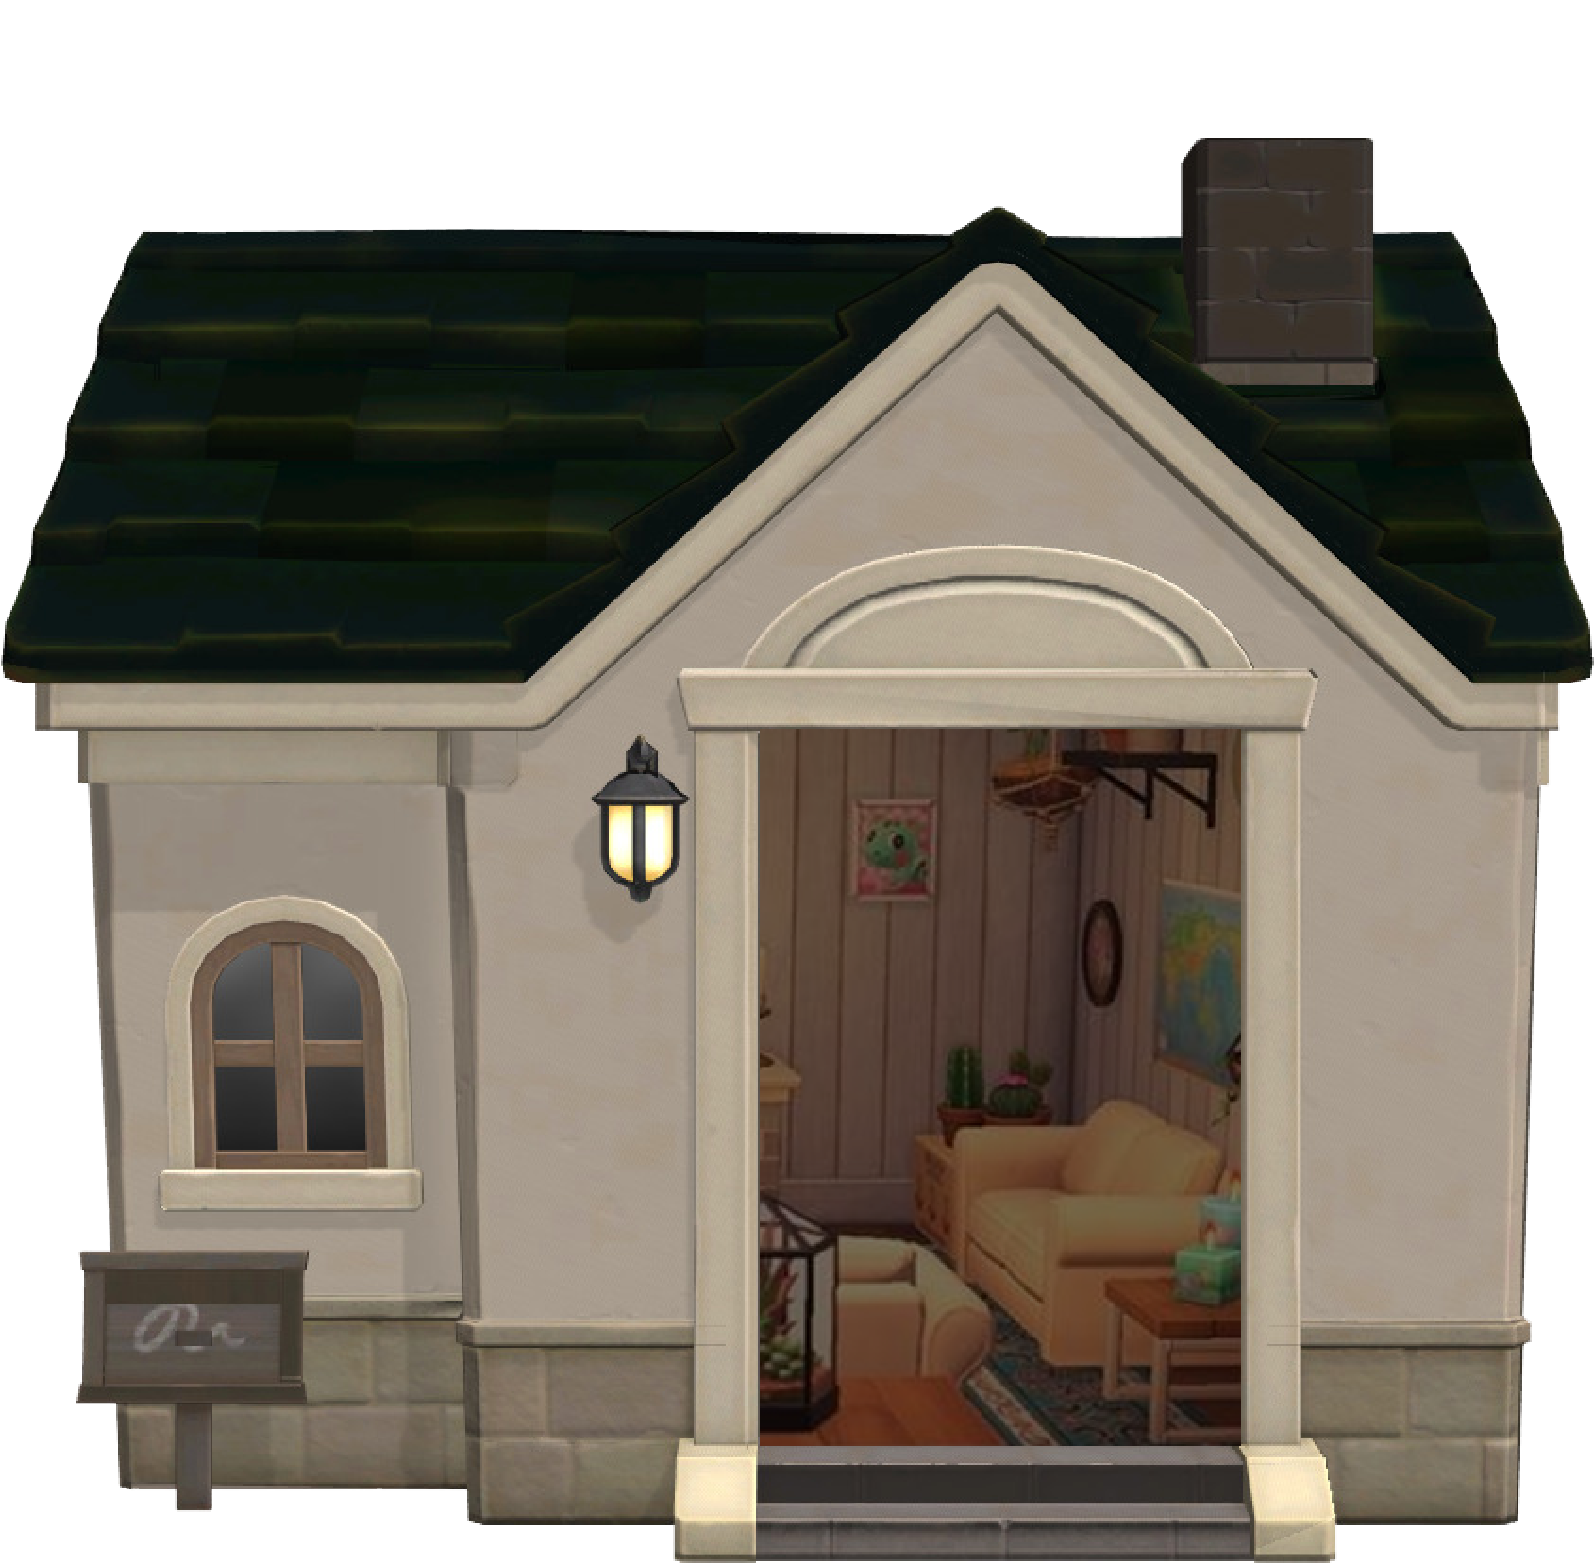
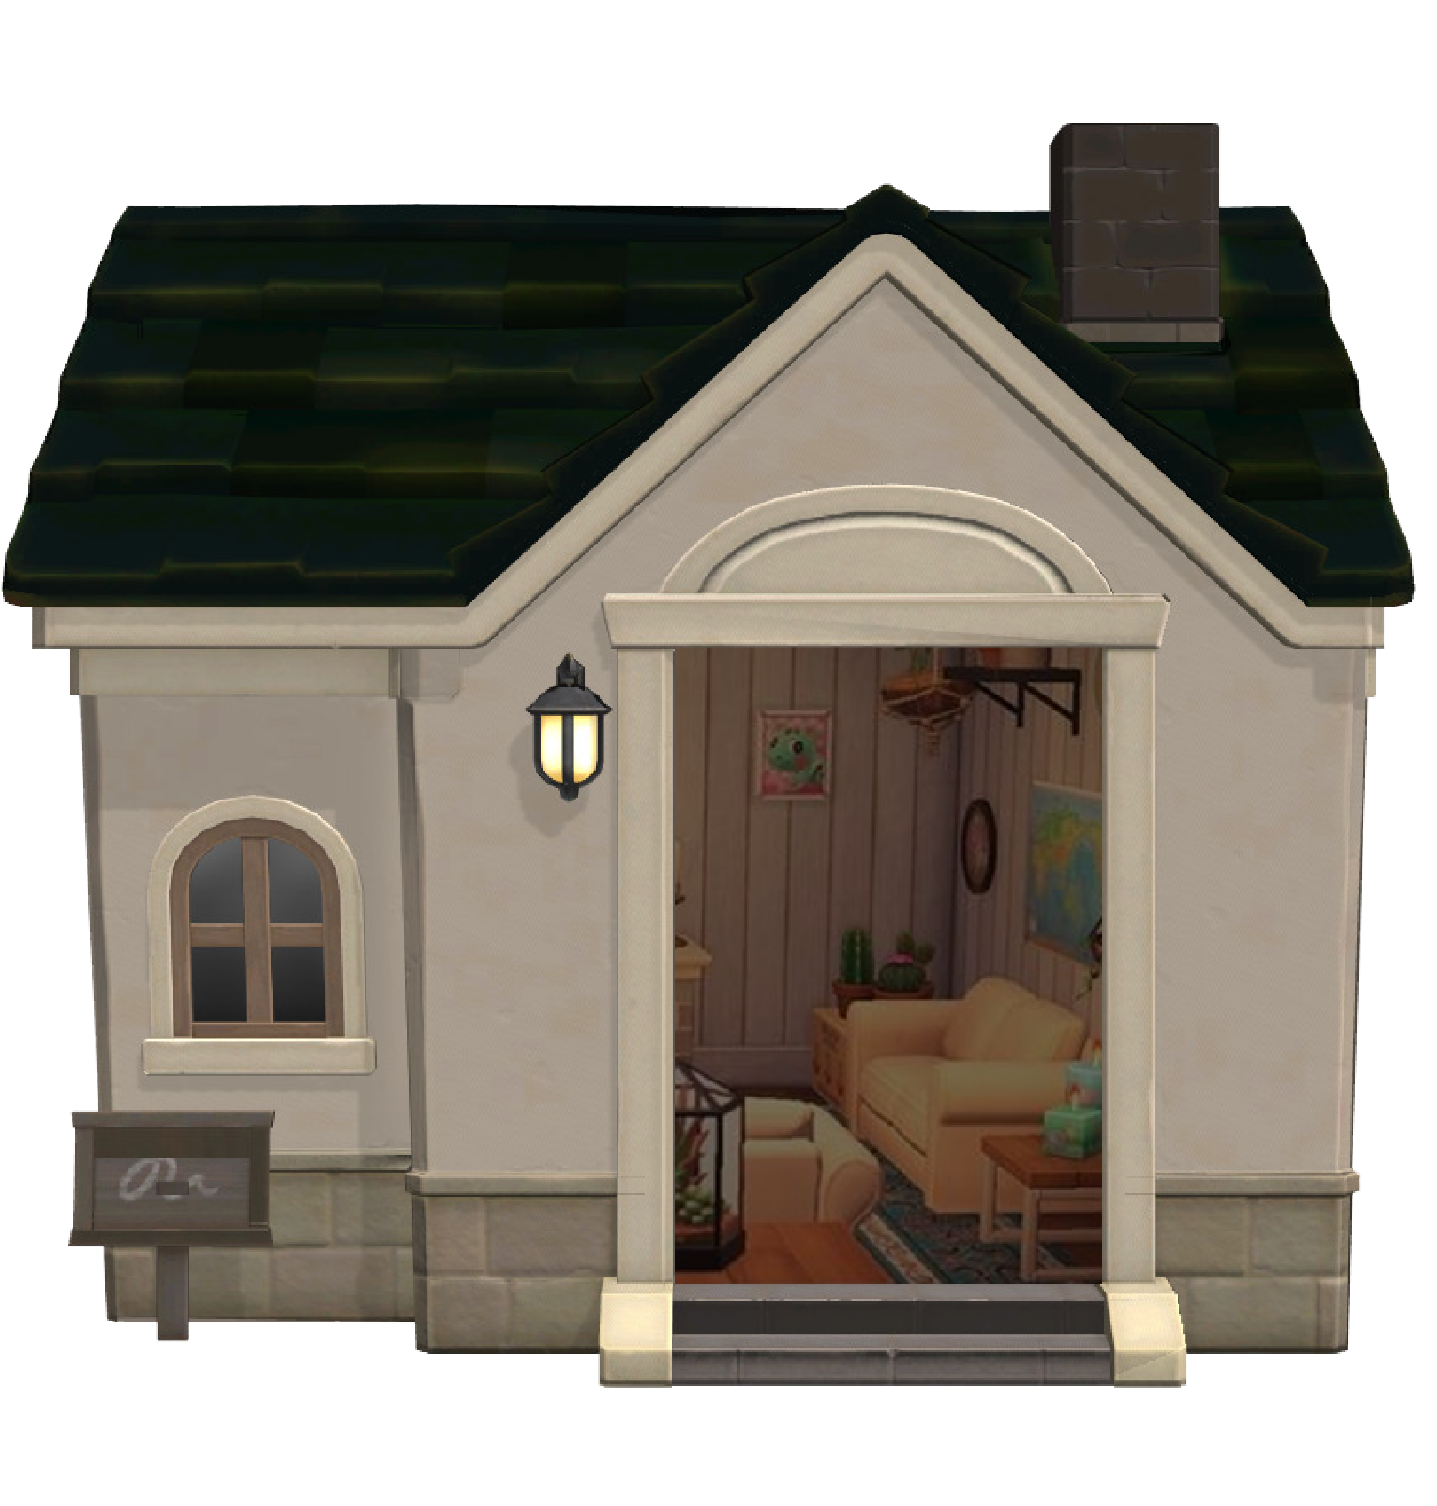
Add files via upload

diff --git a/opdracht2/scripts/script oud.js b/opdracht2/scripts/script oud.js
@@ -90,14 +90,12 @@ function getVillagerHouse() {
 // Doe een villager in het huis
 function showVillagersHouse() {
   house.forEach(villager => {
-    const villagerInHouse = 
-		`
+    const villagerInHouse = `
       <img src="${villager.icon_uri}" alt="${villager.name["name-USen"]}"> 
     `;
 
-		houseVillager.innerHTML = villagerInHouse; // Replaced de section
-
 		// Vergelijkt of de villager in het huisje ook in de bingo kaart zit
+    houseVillager.innerHTML = villagerInHouse;
     bingoCard.forEach(cardVillager => { 
       if (cardVillager.icon_uri === villager.icon_uri) {
         console.log(`Villager zit in de Bingo Kaart: ${cardVillager.name["name-USen"]}`);
@@ -106,6 +104,51 @@ function showVillagersHouse() {
       }
     });
   });
+}
+
+
+
+// CONTROLEERT OF ER EEN BINGO IS
+function checkWin() {
+  const checked = document.querySelectorAll('input[type="checkbox"]:checked'); // Selecteert de li elementen die gechecked
+  let checkedArray = Array.from(checked); // Maakt een array van de gechecked li elementen
+  
+  let checkedIndex = checkedArray.map((card) => bingoCard.findIndex((villager) => villager.icon_uri === card.nextElementSibling.firstElementChild.src));
+  checkedIndex.sort((a, b) => a - b); // Zorgt voor een index van de li elementen voor de array
+  
+  let win = false; // Bingo win conditions ingedeeld door middel van de index nummers
+  let winConditions = [
+    [0, 1, 2, 3, 4], // Vanaf hier horizontale win conditions
+    [5, 6, 7, 8, 9],
+    [10, 11, 12, 13, 14],
+    [15, 16, 17, 18, 19],
+    [20, 21, 22, 23, 24], 
+    [0, 5, 10, 15, 20], // Vanaf hier verticale win conditions
+    [1, 6, 11, 16, 21],
+    [2, 7, 12, 17, 22],
+    [3, 8, 13, 18, 23],
+    [4, 9, 14, 19, 24],
+    [0, 6, 12, 18, 24], // Vanaf hier diagonale win conditions
+    [4, 8, 12, 16, 20]
+  ];
+  
+	// Kijkt of de win conditions worden behaald
+  for (let condition of winConditions) {
+    let count = 0; // Tellen begint bij 0
+    for (let index of checkedIndex) {
+      if (condition.includes(index)) {
+        count++; // Als een villager wordt aangevinkt wordt deze meegeteld
+      }
+    }
+    if (count === 5) { // Als 5 villagers zijn aangevinkt, dan gewonnen
+      win = true;
+      break; // Breekt de loop van de win = tru
+    }
+  }
+  
+  if (win) { // Als gewonnen dan muziekje en image
+    alert('Bingo!');
+  }
 }
 
 

diff --git a/opdracht2/styles/style.css b/opdracht2/styles/style.css
@@ -156,17 +156,29 @@ main section button:active {
 }
 
 /* Het huis binnen de button */
-main section button img {
+main section button img:nth-of-type(1) {
 	height: 65vw;
 	width: 65vw;
 	padding: 5vw;
+}
+
+/* Deur van het huis in de button */
+main section button img:nth-of-type(2) {
+	animation: openDoor 2s forwards;
+	width: 56vw;
+	height: 56vw;
+	top: 5vw;
+	left: 7.3vw;
+	position: absolute; 
+	z-index: 3;
+	transform-origin: 77%;
 }
 
 /* Haalt de opmaak van de lijst weg */
 main section section {
 	list-style: none;
 	position: absolute;
-	bottom: 14vw;
+	bottom: 19vw;
 	left: 33vw;
 
 	display: flex;
@@ -179,14 +191,6 @@ main section section img {
 	height: 17vw;
 	width: 17vw;
 }
-
-/* Deur van het huis, weer toevoegen als html klopt */
-/* main section:nth-of-type(1) img {
-	animation: openDoor 2s forwards;
-	width: 30vw;
-	top: 2vw;
-	position: absolute; ADD RELATIVE TO PARENT OTHERWISE IT WONT STICK
-} */
 
 
 
@@ -280,6 +284,7 @@ main ul li img {
 
 
 
+
 /***************/
 /* 	ANIMATIONS */
 /***************/
@@ -287,13 +292,11 @@ main ul li img {
 /* Animatie van deur */
 @keyframes openDoor {
 	0% {
-		width: 30vw;
-		height: 27vw;
+		transform: scale(1, 1);
 	}
 
 	100% {
-		width: 5vw;
-		height: 27vw;
+		transform:scale(0.2, 1);
 	}
 }
 
@@ -333,14 +336,21 @@ main ul li img {
 		border-radius: 1vh;
 	}
 
-	main section button img {
+	main section button img:nth-of-type(1) {
 		height: 33vh;
 		width: 33vh;
 		padding: 1vh;
 	}
 
+	main section button img:nth-of-type(2) {
+		width: 33vh;
+		height: 31vh;
+		top: 1.1vh;
+		left: 0.3vh;
+	}
+
 	main section section {
-		bottom: 5vh;
+		bottom: 8vh;
 		left: 16.4vh;
 	}
 
@@ -423,15 +433,22 @@ main ul li img {
 		border-radius: 1vw;
 	}
 
-	main section button img {
+	main section button img:nth-of-type(1) {
 		height: 33vw;
 		width: 33vw;
 		padding: 1vw;
 	}
 
+	main section button img:nth-of-type(2) {
+		width: 33vw;
+		height: 31vw;
+		top: 1vw;
+		left: 0vw;
+	}
+
 	main section section {
-		bottom: 5vw;
-		left: 16.4vw;
+		bottom: 8vw;
+		left: 16vw;
 	}
 
 	main section section img {

diff --git a/opdracht2/index.html b/opdracht2/index.html
@@ -20,10 +20,9 @@
 	<main>
 		<section>
 			<button>
-				<img src="images/acnh-house-open-text.png" alt="Klik hier om een bingobal te krijgen.">
+				<img src="images/acnh-house-open-text.png" alt="Klik hier om een bingobal te krijgen. Een geluid speelt af als je bingobal op de bingo kaart staat.">
+				<img src="images/acnh-house-door2.png" alt="" class="door" >
 			</button>
-
-			<!-- <img src="images/acnh-house-door.png" alt="">  -->
 
 			<section></section>
 		</section>

diff --git a/README.md b/README.md
@@ -19,13 +19,14 @@ Nb. Door *open* toe te voegen aan een *details* element kun je deze standaard op
   3. Clip-path generator, opdracht 1 en 2: https://bennettfeely.com/clippy/ 
   4. Achtergrond voor binnenkant van het huis, opdracht 2: https://nl.pinterest.com/pin/414683078192970052/ 
   5. Buitenkant van het huis, opdracht 2: https://animalcrossingworld.com/guides/new-horizons/villager-house-exterior-designs-complete-list/
-  6. Originele foto van het achtergrond, ik heb hem zelf wel scherper gemaakt in Illustrator, opdracht 2: https://www.animal-crossing.com/new-horizons/ 
+  6. Originele foto van het achtergrond en gebruikte, ik heb hem zelf wel scherper gemaakt in Illustrator + gebruikte font opdracht 2: https://www.animal-crossing.com/new-horizons/ 
   7. Array shuffle, opdracht 2: https://www.w3docs.com/snippets/javascript/how-to-randomize-shuffle-a-javascript-array.html  
   8. Slice in de shuffle, opdracht 2: https://developer.mozilla.org/en-US/docs/Web/JavaScript/Reference/Global_Objects/Array/slice
   9. Basis van API in HTML doen, opdracht 2: https://codepen.io/shooft/pen/OJovVev  
   10. Tutorial voor observer, opdracht 2: https://www.youtube.com/watch?v=_5Bu3JY-ZHc 
   11. Animal Crossing leaf voor de afvink overlay, opdracht 2: https://commons.wikimedia.org/wiki/File:Animal_Crossing_Leaf.svg 
   12. Babs voor de API hulp, odpracht 2.
+  13. Geluidje dat afspeelt als de villager in de deur ook in de bingo kaart zit, zelf bijgeknipt, opdracht 2: https://www.youtube.com/watch?v=6Nlpu3fdVnU 
 
 
 
